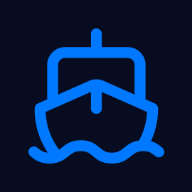
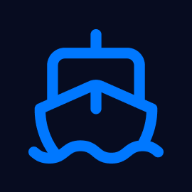
feat: optimize SEO and static brand assets

diff --git a/frontend/src/index.html b/frontend/src/index.html
@@ -26,17 +26,13 @@
       content="data engineering, machine learning, artificial intelligence, telemetry, MLOps, multi-tenant architecture, data pipelines"
     />
     <meta name="author" content="Joe Alongi" />
-    <meta name="robots" content="index, follow" />
+    <meta name="robots" content="index, follow, max-image-preview:large" />
     <link rel="sitemap" type="application/xml" title="Sitemap" href="/sitemap.xml" />
     <!-- pragma: allowlist secret -->
     <meta name="algolia-site-verification" content="687B59B29612DE68" />
 
     <!-- Theme -->
-    <meta
-      name="theme-color"
-      content="var(--viking-white-pure)"
-      media="(prefers-color-scheme: light)"
-    />
+    <meta name="theme-color" content="#ffffff" media="(prefers-color-scheme: light)" />
     <meta name="theme-color" content="#111111" media="(prefers-color-scheme: dark)" />
     <meta name="color-scheme" content="light dark" />
     <meta name="supported-color-schemes" content="light dark" />
@@ -83,33 +79,36 @@
     />
     <meta
       property="og:image"
-      content="https://deml.app/data-engineering-for-machine-learning-preview.png"
+      content="https://deml.app/dataengineeringformachinelearning-social.png"
     />
+    <meta property="og:image:type" content="image/png" />
+    <meta property="og:image:width" content="1280" />
+    <meta property="og:image:height" content="720" />
     <meta
       property="og:image:alt"
-      content="DEML application preview — data engineering and machine learning telemetry dashboard"
+      content="DEML ship mark for data engineering, machine learning, and cybersecurity"
     />
     <meta property="og:site_name" content="DEML (DATA ENGINEERING FOR MACHINE LEARNING)" />
     <meta property="og:locale" content="en_US" />
 
     <!-- Twitter -->
-    <meta property="twitter:card" content="summary_large_image" />
-    <meta property="twitter:url" content="https://deml.app/" />
+    <meta name="twitter:card" content="summary_large_image" />
+    <meta name="twitter:url" content="https://deml.app/" />
     <meta
-      property="twitter:title"
+      name="twitter:title"
       content="Data Engineering for AI Engineering and Cybersecurity | DEML"
     />
     <meta
-      property="twitter:description"
+      name="twitter:description"
       content="A production-grade, multi-tenant platform for Data Engineering and Machine Learning. Monitor infrastructure, stream telemetry, and leverage advanced AI integrations."
     />
     <meta
-      property="twitter:image"
-      content="https://deml.app/data-engineering-for-machine-learning-preview.png"
+      name="twitter:image"
+      content="https://deml.app/dataengineeringformachinelearning-social.png"
     />
     <meta
       name="twitter:image:alt"
-      content="DEML application preview — data engineering and machine learning telemetry dashboard"
+      content="DEML ship mark for data engineering, machine learning, and cybersecurity"
     />
     <meta name="twitter:site" content="@joealongi" />
     <meta name="twitter:creator" content="@joealongi" />
@@ -128,7 +127,13 @@
         },
         "publisher": {
           "@type": "Organization",
-          "name": "DEML (DATA ENGINEERING FOR MACHINE LEARNING)"
+          "name": "DEML (DATA ENGINEERING FOR MACHINE LEARNING)",
+          "logo": {
+            "@type": "ImageObject",
+            "url": "https://deml.app/dataengineeringformachinelearning.png",
+            "width": 270,
+            "height": 270
+          }
         }
       }
     </script>

diff --git a/backend/templates/base.html b/backend/templates/base.html
@@ -18,7 +18,7 @@
     <meta name="author" content="Joe Alongi" />
     <meta
       name="robots"
-      content="{% block robots %}index, follow{% endblock %}"
+      content="{% block robots %}index, follow, max-image-preview:large{% endblock %}"
     />
     <link rel="canonical" href="{{ request.build_absolute_uri }}" />
     <meta name="algolia-site-verification" content="687B59B29612DE68" /> <!-- pragma: allowlist secret -->
@@ -52,31 +52,34 @@
     />
     <meta
       property="og:image"
-      content="{{ request.scheme }}://{{ request.get_host }}{% static 'data-engineering-for-machine-learning-preview.png' %}"
+      content="{{ request.scheme }}://{{ request.get_host }}{% static 'dataengineeringformachinelearning-social.png' %}"
     />
+    <meta property="og:image:type" content="image/png" />
+    <meta property="og:image:width" content="1280" />
+    <meta property="og:image:height" content="720" />
     <meta
       property="og:image:alt"
-      content="DEML backend API preview — data engineering and machine learning services"
+      content="DEML ship mark for the backend API and platform services"
     />
 
     <!-- Twitter -->
-    <meta property="twitter:card" content="summary_large_image" />
-    <meta property="twitter:url" content="{{ request.build_absolute_uri }}" />
+    <meta name="twitter:card" content="summary_large_image" />
+    <meta name="twitter:url" content="{{ request.build_absolute_uri }}" />
     <meta
-      property="twitter:title"
+      name="twitter:title"
       content="{% block twitter_title %}DEML Backend API{% endblock %}"
     />
     <meta
-      property="twitter:description"
+      name="twitter:description"
       content="{% block twitter_description %}Core REST API and services for Data Engineering for AI Engineering and Cybersecurity.{% endblock %}"
     />
     <meta
-      property="twitter:image"
-      content="{{ request.scheme }}://{{ request.get_host }}{% static 'data-engineering-for-machine-learning-preview.png' %}"
+      name="twitter:image"
+      content="{{ request.scheme }}://{{ request.get_host }}{% static 'dataengineeringformachinelearning-social.png' %}"
     />
     <meta
       name="twitter:image:alt"
-      content="DEML backend API preview — data engineering and machine learning services"
+      content="DEML ship mark for the backend API and platform services"
     />
 
     <script type="application/ld+json">

diff --git a/frontend/src/app/services/page-meta.service.ts b/frontend/src/app/services/page-meta.service.ts
@@ -3,9 +3,8 @@ import { Meta, Title } from '@angular/platform-browser';
 import { resolveRouteMeta } from '../core/page-meta';
 import { environment } from '../../environments/environment';
 
-const OG_IMAGE = '/data-engineering-for-machine-learning-preview.png';
-const OG_IMAGE_ALT =
-  'DEML application preview — data engineering and machine learning telemetry dashboard';
+const OG_IMAGE = '/dataengineeringformachinelearning-social.png';
+const OG_IMAGE_ALT = 'DEML ship mark for data engineering, machine learning, and cybersecurity';
 const ALGOLIA_SITE_VERIFICATION = '687B59B29612DE68'; // pragma: allowlist secret
 
 @Injectable({ providedIn: 'root' })
@@ -33,6 +32,10 @@ export class PageMetaService {
       content: `${environment.frontendUrl}${OG_IMAGE}`,
     });
     this.meta.updateTag({ property: 'og:image:alt', content: OG_IMAGE_ALT });
+    this.meta.updateTag({ property: 'og:image:type', content: 'image/png' });
+    this.meta.updateTag({ property: 'og:image:width', content: '1280' });
+    this.meta.updateTag({ property: 'og:image:height', content: '720' });
+    this.meta.updateTag({ property: 'og:site_name', content: 'DEML' });
     this.meta.updateTag({ name: 'twitter:card', content: 'summary_large_image' });
     this.meta.updateTag({ name: 'twitter:title', content: title });
     this.meta.updateTag({ name: 'twitter:description', content: description });

diff --git a/backend/templates/404.html b/backend/templates/404.html
@@ -23,7 +23,7 @@
   <article class="viking-card backend-error-card">
     <img
       class="backend-error-logo"
-      src="{% static 'data-engineering-for-machine-learning.svg' %}"
+      src="{% static 'dataengineeringformachinelearning.svg' %}"
       alt="DEML brand icon"
     />
     <h1 class="viking-heading viking-heading-xl">404 — Not Found</h1>

diff --git a/README.md b/README.md
@@ -14,7 +14,7 @@ license: apache-2.0
 
 [Acknowledgements & Technologies](#acknowledgements--technologies)
 
-![Project Banner](https://raw.githubusercontent.com/dataengineeringformachinelearning/dataengineeringformachinelearning/main/frontend/public/data-engineering-for-machine-learning-preview.svg)
+![DEML brand](https://raw.githubusercontent.com/dataengineeringformachinelearning/dataengineeringformachinelearning/main/frontend/public/dataengineeringformachinelearning-social.png)
 
 > **Platform boundary:** DEML is the Firebase-authenticated user control plane and
 > Angular backend-for-frontend. FORJD is the universal secure streaming engine for
